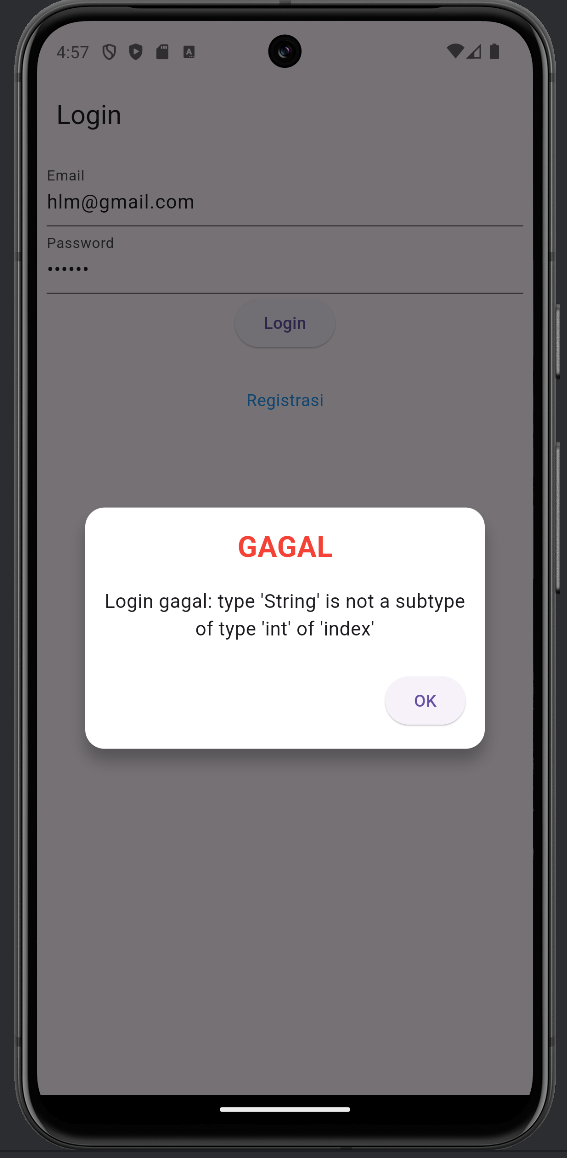
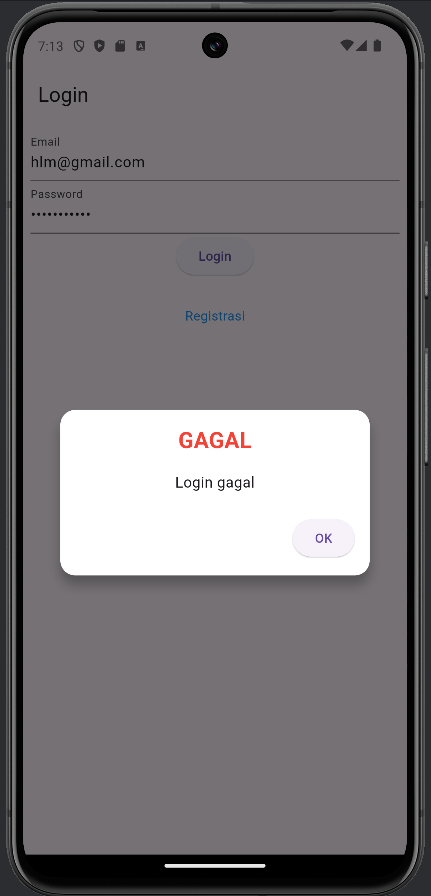
readme

diff --git a/lib/ui/login_page.dart b/lib/ui/login_page.dart
@@ -110,7 +110,7 @@ class _LoginPageState extends State<LoginPage> {
           context: context,
           barrierDismissible: false,
           builder: (BuildContext context) => WarningDialog(
-            description: "Login gagal: ${error.toString()}",
+            description: "Login gagal",
           )
       );
     }).whenComplete(() {
